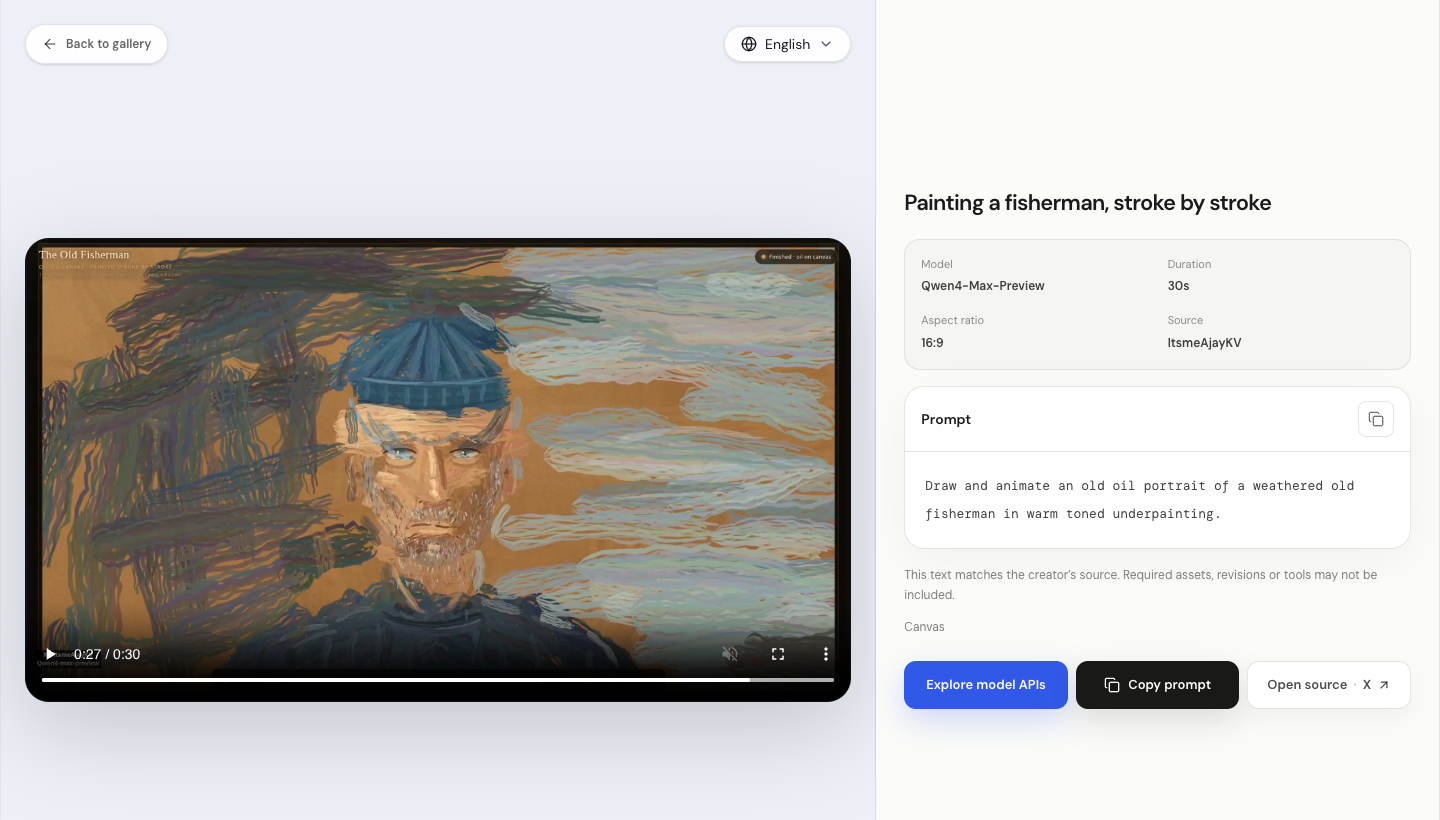
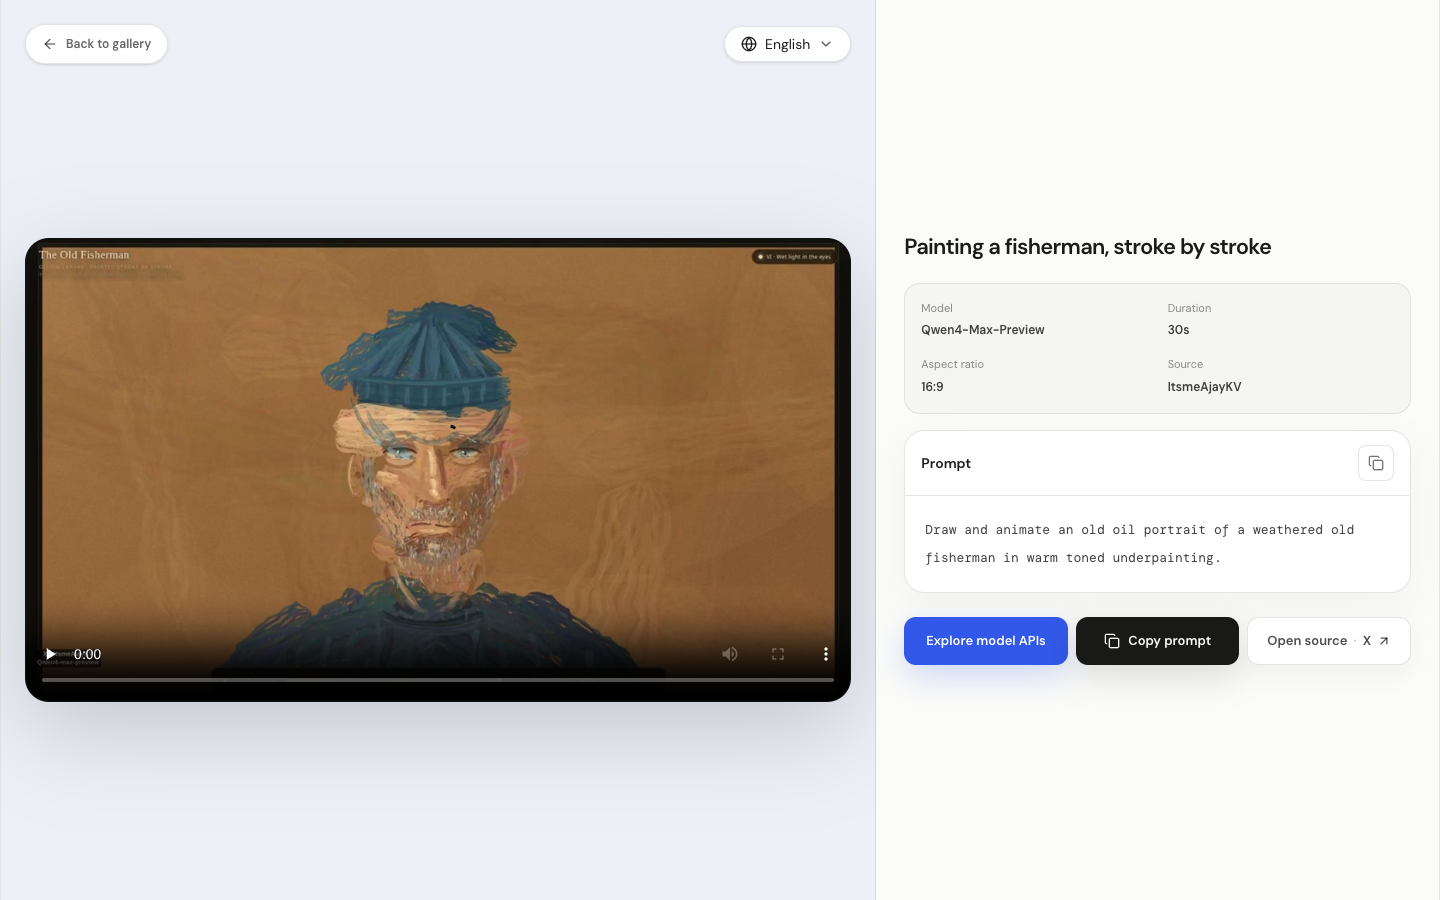
docs: link launched Qwen gallery and refresh live detail preview

diff --git a/README.md b/README.md
@@ -10,8 +10,6 @@ Animations, architecture, 3D scenes and games made through creative coding with 
 
 Latest update · 2026-11-16: 21 cases organized by use, with six highlights.
 
-> Website launch review is in progress. On-site playback links will become available after approval.
-
 ## Contents
 
 - [Six highlights](#highlights)
@@ -126,9 +124,9 @@ Featured in this category：[Floating moss garden in mist and rain](https://beat
 2. Copy a published prompt on the detail page, or open its “Prompt” link in this repository.
 3. Follow the creator’s tools, assets and instructions. Cases without a published prompt remain references for inspiration.
 
-<p align="center"><a href="https://beatapi.io/prompts/qwen4/fisherman-oil-portrait-932340?utm_source=github&amp;utm_medium=gallery&amp;utm_campaign=awesome-qwen4-videos"><img src="./assets/site-detail-preview.png" alt="BeatAPI detail review preview: video, model information and prompt" width="680" /></a></p>
+<p align="center"><a href="https://beatapi.io/prompts/qwen4/fisherman-oil-portrait-932340?utm_source=github&amp;utm_medium=gallery&amp;utm_campaign=awesome-qwen4-videos"><img src="./assets/site-detail-preview.png" alt="BeatAPI detail page: video, model information and prompt" width="680" /></a></p>
 
-*Website detail page shown in its review version.*
+*Watch the original recording and copy the creator-published prompt on BeatAPI.*
 
 <a id="credits"></a>
 

diff --git a/README.zh-CN.md b/README.zh-CN.md
@@ -10,8 +10,6 @@
 
 最近更新 · 2026-11-16：整理 21 个案例，精选六例，按用途分类。
 
-> 网站页面正在审核，站内播放入口将在审核后上线。
-
 ## 目录
 
 - [精选六例](#highlights)
@@ -126,9 +124,9 @@
 2. 有公开提示词时，可在详情页复制，或打开仓库内的「提示词」。
 3. 按作者提供的工具、素材和步骤尝试；未公开完整提示词的案例保留为灵感参考。
 
-<p align="center"><a href="https://beatapi.io/zh/prompts/qwen4/fisherman-oil-portrait-932340?utm_source=github&amp;utm_medium=gallery&amp;utm_campaign=awesome-qwen4-videos"><img src="./assets/site-detail-preview.png" alt="BeatAPI 详情页审核预览：左侧视频，右侧模型信息与提示词" width="680" /></a></p>
+<p align="center"><a href="https://beatapi.io/zh/prompts/qwen4/fisherman-oil-portrait-932340?utm_source=github&amp;utm_medium=gallery&amp;utm_campaign=awesome-qwen4-videos"><img src="./assets/site-detail-preview.png" alt="BeatAPI 详情页：左侧视频，右侧模型信息与提示词" width="680" /></a></p>
 
-*站内详情页审核预览。*
+*在 BeatAPI 观看原视频，并复制作者公开的提示词。*
 
 <a id="credits"></a>
 
